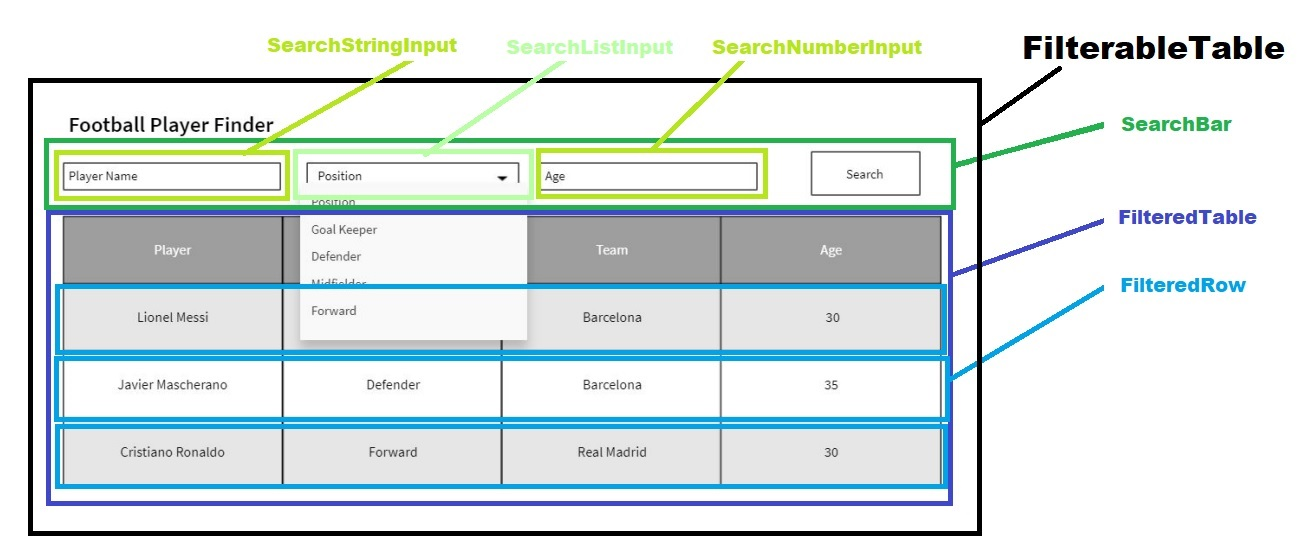
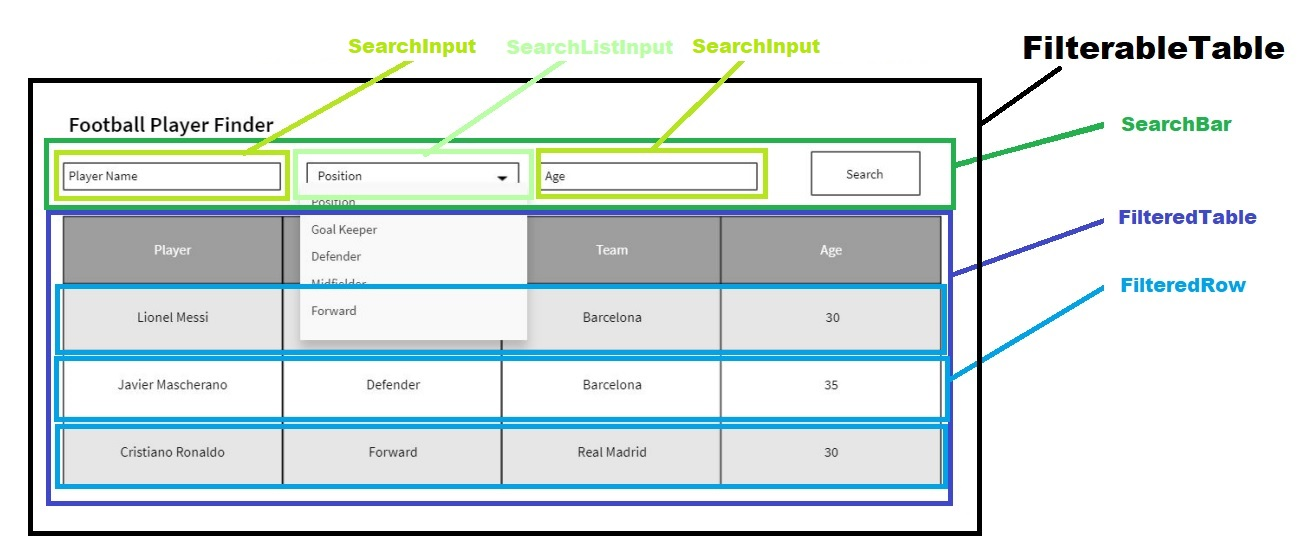
RT03: Static (pure react) and without CSS version of the idea

Changed region(s): [[0.5215, 0.0619, 0.7055, 0.1239], [0.184, 0.0619, 0.3681, 0.1239]]

diff --git a/src/App.js b/src/App.js
@@ -1,25 +1,149 @@
 import React, { Component } from 'react'
-import logo from './logo.svg'
 import './App.css'
+
+class FilteredRow extends React.Component {
+  render () {
+    const data = this.props.data
+
+    return (
+      <tr>
+        <td>{data.name}</td>
+        <td>{data.position}</td>
+        <td>{data.team}</td>
+        <td>{data.age}</td>
+      </tr>
+    )
+  }
+}
+
+class FilteredTable extends React.Component {
+  render () {
+    const rows = []
+    const categories = []
+
+    this.props.categories.forEach((el, idx) => {
+      categories.push(
+        <th key={el}>{el}</th>
+      )
+    })
+
+    this.props.results.forEach((el, idx) => {
+      rows.push(
+        <FilteredRow
+          data={el}
+          key={el.name} />
+      )
+    })
+
+    return (
+      <table className='FilteredTable'>
+        <thead>
+          <tr>
+            {categories}
+          </tr>
+        </thead>
+        <tbody>
+          {rows}
+        </tbody>
+      </table>
+    )
+  }
+}
+
+class SearchInput extends React.Component {
+  constructor () {
+    super()
+    this.state = {
+      value: ''
+    }
+    this.validRE = {
+      onlyLetters: /^[A-Za-z]+$/,
+      onlyNumbers: /^[0-9\b]+$/
+    }
+  }
+
+  correctInputText (e) {
+    const re = this.validRE[this.props.restrict]
+    if (e.target.value === '' || (re && re.test(e.target.value))) {
+      this.setState({value: e.target.value})
+    }
+  }
+
+  render () {
+    return (
+      <input type='text' placeholder={this.props.placeholder} value={this.state.value} onChange={e => this.correctInputText(e)} />
+    )
+  }
+}
+
+class SearchListInput extends React.Component {
+  render () {
+    const opt = []
+    this.props.list.forEach(el => {
+      opt.push(
+        <option key={el.val} value={el.val}>{el.name}</option>
+      )
+    })
+    return (
+      <select>
+        { this.props.initialVal ? <option value='' defaultValue>{this.props.initialVal}</option> : '' }
+        {opt}
+      </select>
+    )
+  }
+}
+
+const VALID_POSITIONS = [
+  { val: 'AM', name: 'Attacking Midfield' },
+  { val: 'CM', name: 'Central Midfield' },
+  { val: 'CB', name: 'Centre-Back' },
+  { val: 'CF', name: 'Centre-Forward' },
+  { val: 'DM', name: 'Defensive Midfield' },
+  { val: 'GK', name: 'Keeper' },
+  { val: 'LM', name: 'Left Midfield' },
+  { val: 'LW', name: 'Left Wing' },
+  { val: 'LB', name: 'Left-Back' },
+  { val: 'RB', name: 'Right-Back' }
+]
+
+class SearchBar extends React.Component {
+  render () {
+    return (
+      <form>
+        <SearchInput placeholder='Player Name' restrict='onlyLetters' />
+        <SearchListInput list={VALID_POSITIONS} initialVal='Position' />
+        <SearchInput placeholder='Age' restrict='onlyNumbers' />
+        <button>Search</button>
+      </form>
+    )
+  }
+}
+
+class FilterableTable extends React.Component {
+  render () {
+    return (
+      <div>
+        <SearchBar />
+        <FilteredTable results={this.props.results} categories={['Player', 'Position', 'Team', 'Age']} />
+      </div>
+    )
+  }
+}
+
+const PLAYERS = [
+  {team: 'Barcelona', age: 30, position: 'Forward', name: 'Lionel Messi'},
+  {team: 'Barcelona', age: 35, position: 'Defender', name: 'Javier Mascherano'},
+  {team: 'Real Madrid', age: 30, position: 'Forward', name: 'Cristiano Ronaldo'},
+  {team: 'Real Madrid', age: 22, position: 'Defensive Midfield', name: 'Sergio Reguilón'},
+  {team: 'Real Madrid', age: 22, position: 'Central Midfield', name: 'Dani Ceballos'},
+  {team: 'Atlético Madrid', age: 23, position: 'Forward', name: 'Ángel Correa'}
+]
 
 class App extends Component {
   render () {
     return (
       <div className='App'>
-        <header className='App-header'>
-          <img src={logo} className='App-logo' alt='logo' />
-          <p>
-            Edit <code>src/App.js</code> and save to reload.
-          </p>
-          <a
-            className='App-link'
-            href='https://reactjs.org'
-            target='_blank'
-            rel='noopener noreferrer'
-          >
-            Learn React
-          </a>
-        </header>
+        <FilterableTable results={PLAYERS} />
       </div>
     )
   }

diff --git a/src/App.css b/src/App.css
@@ -1,32 +1,11 @@
 .App {
-  text-align: center;
+  width: 50%;
+  margin: 10px auto;
+  border: 1p solid black;
+  padding: 5px;
 }
 
-.App-logo {
-  animation: App-logo-spin infinite 20s linear;
-  height: 40vmin;
-}
-
-.App-header {
-  background-color: #282c34;
-  min-height: 100vh;
-  display: flex;
-  flex-direction: column;
-  align-items: center;
-  justify-content: center;
-  font-size: calc(10px + 2vmin);
-  color: white;
-}
-
-.App-link {
-  color: #61dafb;
-}
-
-@keyframes App-logo-spin {
-  from {
-    transform: rotate(0deg);
-  }
-  to {
-    transform: rotate(360deg);
-  }
+.FilteredTable {
+  border: 1px solid black;
+  width: 100%;
 }
